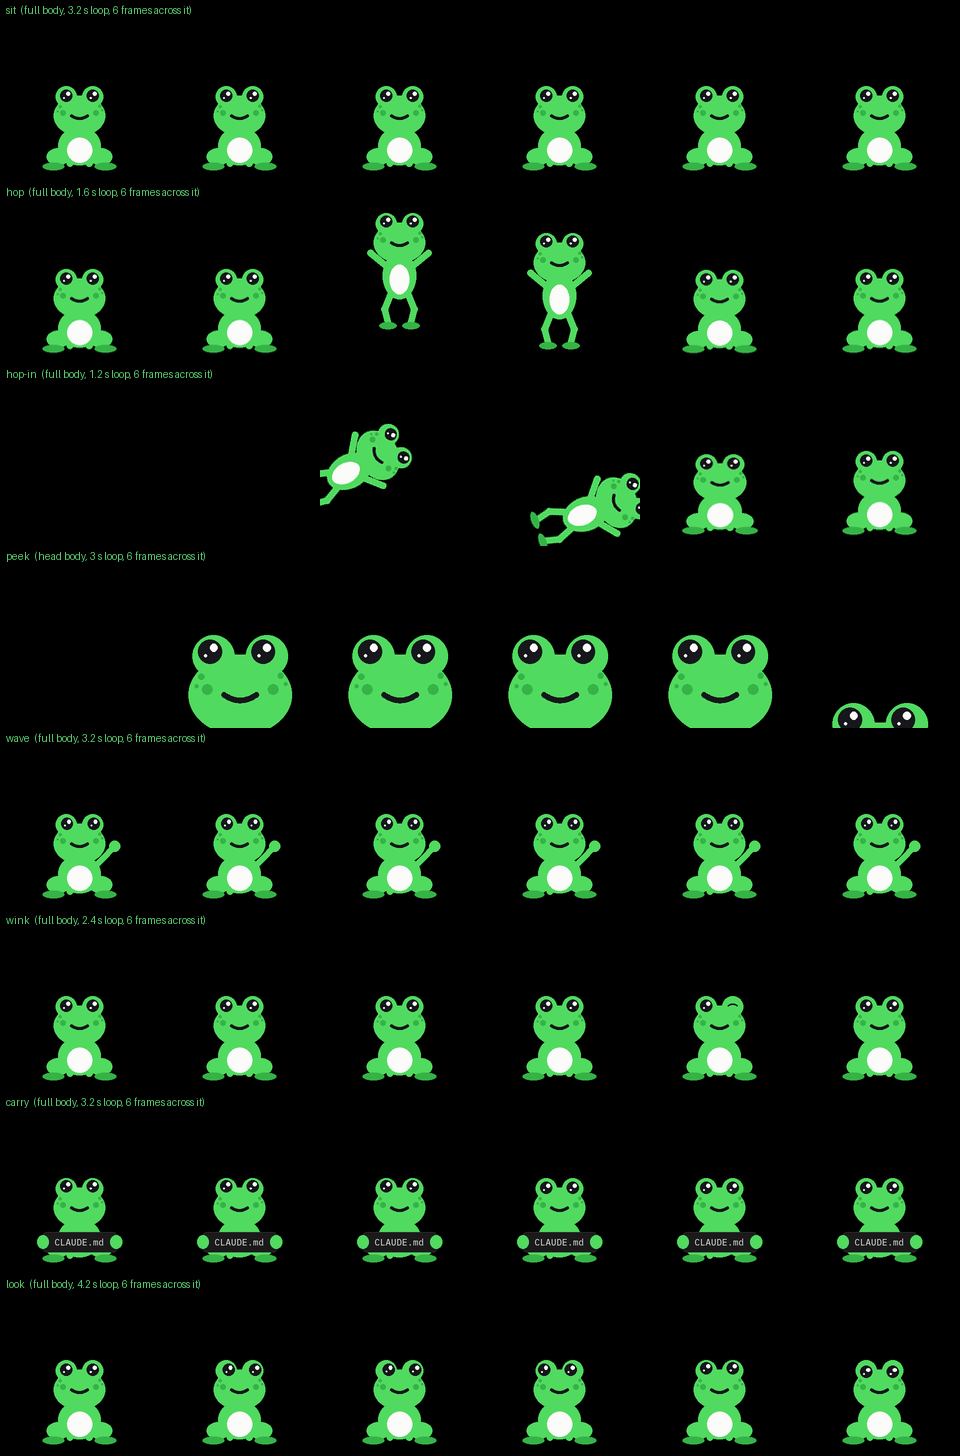
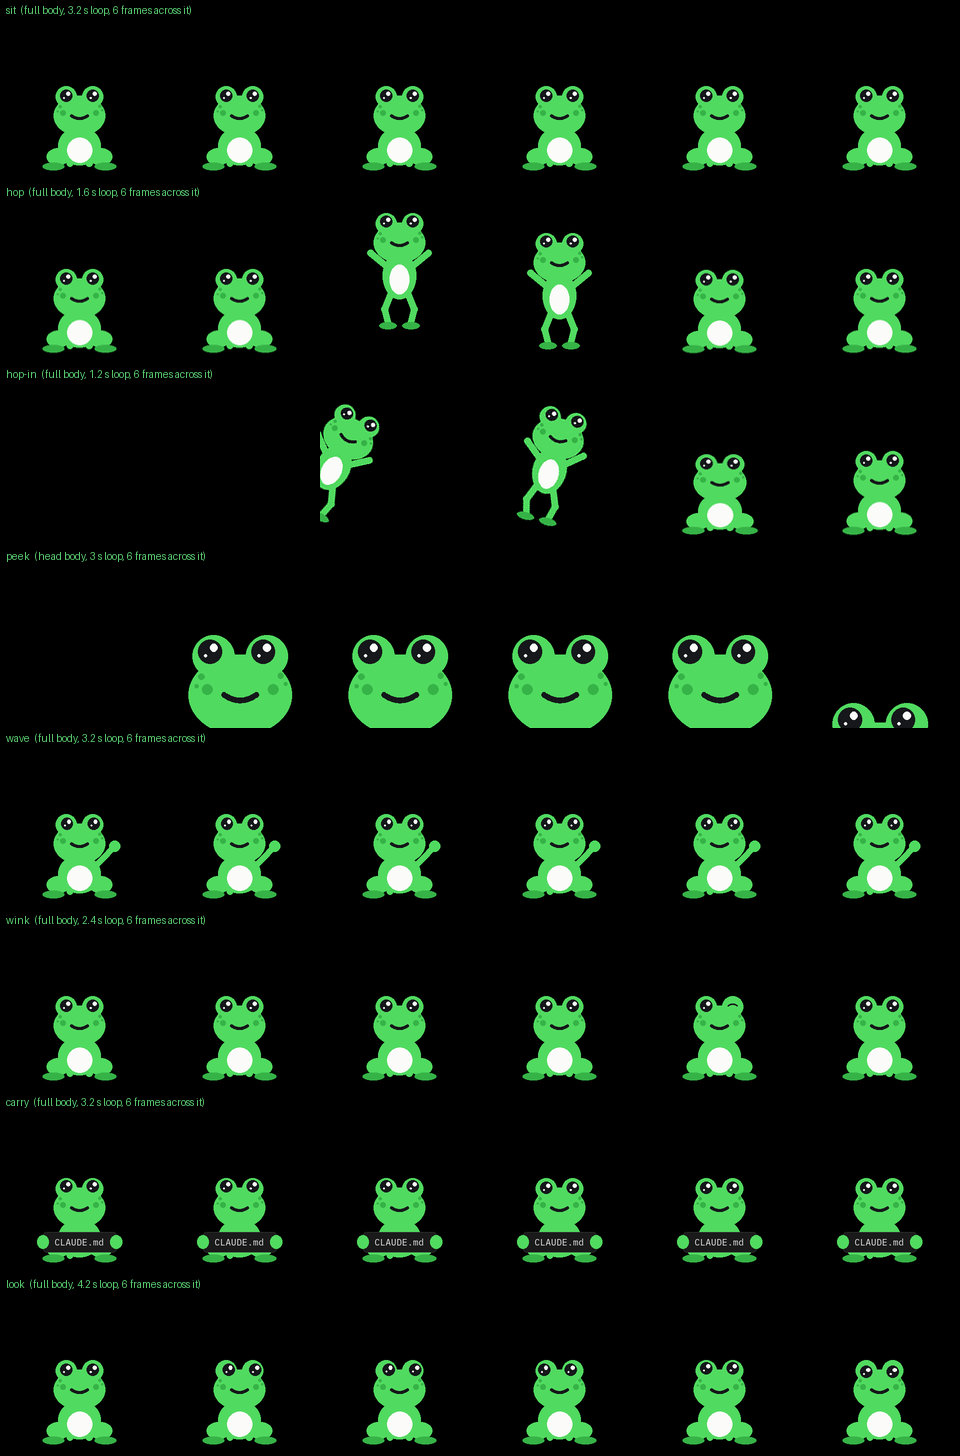
frog-anim: facing left mirrors tilt, label and gaze; hop-in stays in frame
- carry's chip label reads left to right when the frog faces left
- the hop's in-air gaze follows its direction when mirrored
- mood body moves (tilt, sway) mirror with the frog
- hop-in draws its own flight: leans into the hop and straightens to land,
  so the head no longer leaves the canvas at touchdown
- tests: every action mirrored and on canvas facing either way; the carry
  label; the docstring's command runs discovery

Changed region(s): [[0.5312, 0.2782, 0.6875, 0.3709], [0.3125, 0.2782, 0.4375, 0.3709]]

diff --git a/video/frog-anim/tests/test_frog_anim.py b/video/frog-anim/tests/test_frog_anim.py
@@ -1,6 +1,6 @@
 """frog-anim tests (stdlib unittest).
 
-    cd video/frog-anim && uv run --no-project --with pillow==12.0.0 --with numpy==2.3.4 python -m unittest -v
+    cd video/frog-anim && uv run --no-project --with pillow==12.0.0 --with numpy==2.3.4 python -m unittest discover -s tests -v
 
 The reel comparison (test_reel_matches_before) runs only when FROG_ANIM_REEL_BEFORE points at a
 directory of the reel's frames rendered before the move, and the reel's footage/ exists."""
@@ -113,24 +113,45 @@ class Actions(unittest.TestCase):
         self.assertEqual(im.getpixel((0, 0)), (1, 2, 3))
 
     def test_frog_stays_on_canvas(self):
-        """No action's frog is cut by the canvas edge in the default layout (peek and hop-in enter
-        from off-canvas on purpose and are skipped)."""
+        """No action's frog is cut by the canvas edge in the default layout, facing either way.
+        peek rises over the bottom edge and hop-in enters over the edge behind it, on purpose:
+        only that edge is exempt for them."""
         for name, act in ACTIONS.items():
-            if name in ("peek", "hop-in"): continue
-            lay = layout(240, 240, act.body)
-            for i in range(24):
-                a = np.asarray(render_frame(name, act.loop * i / 24, lay))[..., 3]
-                edges = np.concatenate([a[0], a[-1], a[:, 0], a[:, -1]])
-                self.assertEqual(edges.max(), 0, f"{name} touches the edge at frame {i}")
+            for facing in ("right", "left"):
+                lay = layout(240, 240, act.body)
+                for i in range(24):
+                    a = np.asarray(render_frame(name, act.loop * i / 24, lay, facing=facing))[..., 3]
+                    edges = {"top": a[0], "bottom": a[-1], "left": a[:, 0], "right": a[:, -1]}
+                    if name == "peek": edges.pop("bottom")
+                    if name == "hop-in": edges.pop("left" if facing == "right" else "right")
+                    for side, px in edges.items():
+                        self.assertEqual(px.max(), 0, f"{name} facing {facing} touches the {side} edge at frame {i}")
 
-    def test_facing_left_mirrors(self):
-        lay = layout(200, 200)
-        r = np.asarray(render_frame("wave", 0, lay))
-        l = np.asarray(render_frame("wave", 0, lay, facing="left"))
-        self.assertFalse(np.array_equal(r, l))
-        # the left-facing frog is the right-facing one flipped, give or take a pixel of rounding
-        best = min(np.abs(np.roll(r[:, ::-1], s, axis=1).astype(int) - l).mean() for s in (-1, 0, 1))
-        self.assertLess(best, 0.5)
+    def test_facing_left_mirrors_every_action(self):
+        """Facing left is facing right flipped, give or take a pixel of rounding and resampling, for every action
+        (carry's label excepted: it must still read left to right, below)."""
+        for name, act in ACTIONS.items():
+            if name == "carry": continue
+            lay = layout(200, 200, act.body)
+            for t in (act.loop * 0.3, act.loop * 0.45):
+                r = np.asarray(render_frame(name, t, lay))
+                l = np.asarray(render_frame(name, t, lay, facing="left"))
+                # shape check: after the best +-1 px shift, few of the frog's pixels disagree on
+                # coverage (bicubic rotation of a flipped sprite resamples edges a hair differently)
+                ra, la = r[..., 3] > 127, l[..., 3] > 127
+                off = min(np.count_nonzero(np.roll(ra[:, ::-1], (dy, dx), axis=(0, 1)) ^ la)
+                          for dx in (-1, 0, 1) for dy in (-1, 0, 1))
+                tol = 0.06 if name in ("hop", "hop-in") else 0.02  # rotated mid-air: thin limbs land on different pixels
+                self.assertLess(off, tol * max(1, la.sum()), f"{name} at {t:.2f} s")
+
+    def test_carry_label_reads_the_same_facing_left(self):
+        lay = layout(400, 400, "full", size=150)
+        top, bot = int(lay.y - (1195 - 930) / 592 * 150), int(lay.y - (1195 - 1000) / 592 * 150)
+        r = np.asarray(render_frame("carry", 2.0, lay, label="ABC"))[top:bot, 120:280].astype(int)
+        l = np.asarray(render_frame("carry", 2.0, lay, label="ABC", facing="left"))[top:bot, 120:280].astype(int)
+        same = min(np.abs(np.roll(r, s, axis=1) - l).mean() for s in (-1, 0, 1))
+        flipped = np.abs(r[:, ::-1] - l).mean()
+        self.assertLess(same, flipped / 3)
 
     def test_transparent_edges_are_not_darkened(self):
         """On a transparent canvas the frog's edge pixels keep the skin colour (alpha-composited,

diff --git a/video/frog-anim/frog_anim/actions.py b/video/frog-anim/frog_anim/actions.py
@@ -11,6 +11,7 @@ The two building blocks the reel itself calls, `rest()` and `hop()`, are the ree
 and `hop` (video/hype-reel/comp.py) without its beat clock: the caller says when it blinks."""
 from __future__ import annotations
 
+import math
 import random
 from dataclasses import dataclass, field
 from typing import Callable
@@ -32,6 +33,8 @@ def rest(img: Image.Image, t: float, x: float, y: float, size: float, pose: str 
     """The frog resting with its anchor at (x, y), `size` px head width. `land` is when it last
     touched down (for the squash). The reel's `frog_at`, with `blink` passed in."""
     sq = squash_at(t, land)
+    if mirror and body is not None:  # facing left mirrors the body's sway and tilt too
+        body = Move(-body.tx, body.ty, body.sx, body.sy, -body.rotation)
     spr = sprite(size, pose, blink=blink, wink=wink, look=look, label=label,
                  **_extra(eyes, frown, palette, font, mirror))
     place(img, spr, x, y, squash=sq, rot=rot, clip_y=clip_y, **({"body": body, "unit": size / HEAD_W} if body else {}))
@@ -51,6 +54,7 @@ def hop(img: Image.Image, t: float, t0: float, t1: float, p0: tuple[float, float
         return True
     x, y, rot, dx = hop_path(t, t0, t1, p0, p1, height)
     lx = 0.4 * (1 if dx > 0 else -1 if dx < 0 else 0) if dx else 0
+    if mirror: lx = -lx  # the sprite is flipped after drawing; keep it looking where it goes
     spr = sprite(size, "hop", look=(lx, -0.5), **_extra(None, False, palette, font, mirror))
     place(img, spr, x, y + size * 0.9, rot=rot)
     return True
@@ -171,13 +175,21 @@ def _hop(img, t, c):
 
 
 def _hop_in(img, t, c):
-    """hops in from off the edge it faces away from and lands with a squash (the reel's entrances).
-    Plays once: 0.25 s empty, the hop, then it sits."""
+    """hops in from off the edge behind it and lands with a squash (the reel's entrances).
+    Plays once: 0.25 s empty, the hop, then it sits. The flight leans into the hop and
+    straightens to land (the reel's hop() leans along the arc, which on a small canvas pushes
+    its head off the far side at touchdown)."""
     t0, t1 = 0.25, 0.25 + 0.42
-    sx = -1 if not c.mirror else 1
-    start = (c.x + sx * (c.x + c.size * 1.4), c.y - c.size * 0.2)
-    hop(img, t, t0, t1, start, (c.x, c.y), c.size, height=c.size * 1.6, blink=BLINK(t + c.phase),
-        palette=c.palette, mirror=c.mirror)
+    if t < t0: return
+    if t >= t1:
+        rest(img, t, c.x, c.y, c.size, "sit", land=t1, blink=BLINK(t + c.phase), palette=c.palette, mirror=c.mirror)
+        return
+    way = -1 if c.mirror else 1
+    start = (-c.size * 1.2, c.y) if not c.mirror else (2 * c.x + c.size * 1.2, c.y)
+    x, y, _, _ = hop_path(t, t0, t1, start, (c.x, c.y), c.size * 0.4)
+    k = (t - t0) / (t1 - t0)
+    rot = -way * 30 * math.sin(math.pi * k)  # PIL turns counter-clockwise: lean forward
+    place(img, sprite(c.size, "hop", look=(0.4, -0.5), **_extra(None, False, c.palette, None, c.mirror)), x, y, rot=rot)
 
 
 def _peek(img, t, c):

diff --git a/video/frog-anim/frog_anim/sprite.py b/video/frog-anim/frog_anim/sprite.py
@@ -88,7 +88,12 @@ def sprite(head_px: float, pose: str = "sit", blink: bool = False, wink: bool = 
             d.rounded_rectangle([*P(x0, y0), *P(x1, y1)], radius=40 * s, fill=WELL, outline=EDGE, width=max(1, int(5 * s)))
             if label:
                 f = _font(font if font is not None else default_font(), max(8, int(104 * s)))
-                d.text(P(512, 965), label, font=f, fill=FG, anchor="mm")
+                if not mirror:
+                    d.text(P(512, 965), label, font=f, fill=FG, anchor="mm")
+                else:  # drawn flipped (the canvas is symmetric about x 512), so the final flip rights it
+                    lay = Image.new("RGBA", im.size, (0, 0, 0, 0))
+                    ImageDraw.Draw(lay).text(P(512, 965), label, font=f, fill=FG, anchor="mm")
+                    im.alpha_composite(ImageOps.mirror(lay)); d = ImageDraw.Draw(im)
             ell(x0, 965, 66, 78, SKIN); ell(x1, 965, 66, 78, SKIN)
         else:
             ell(512, 964, 143, 143, PAPER)
